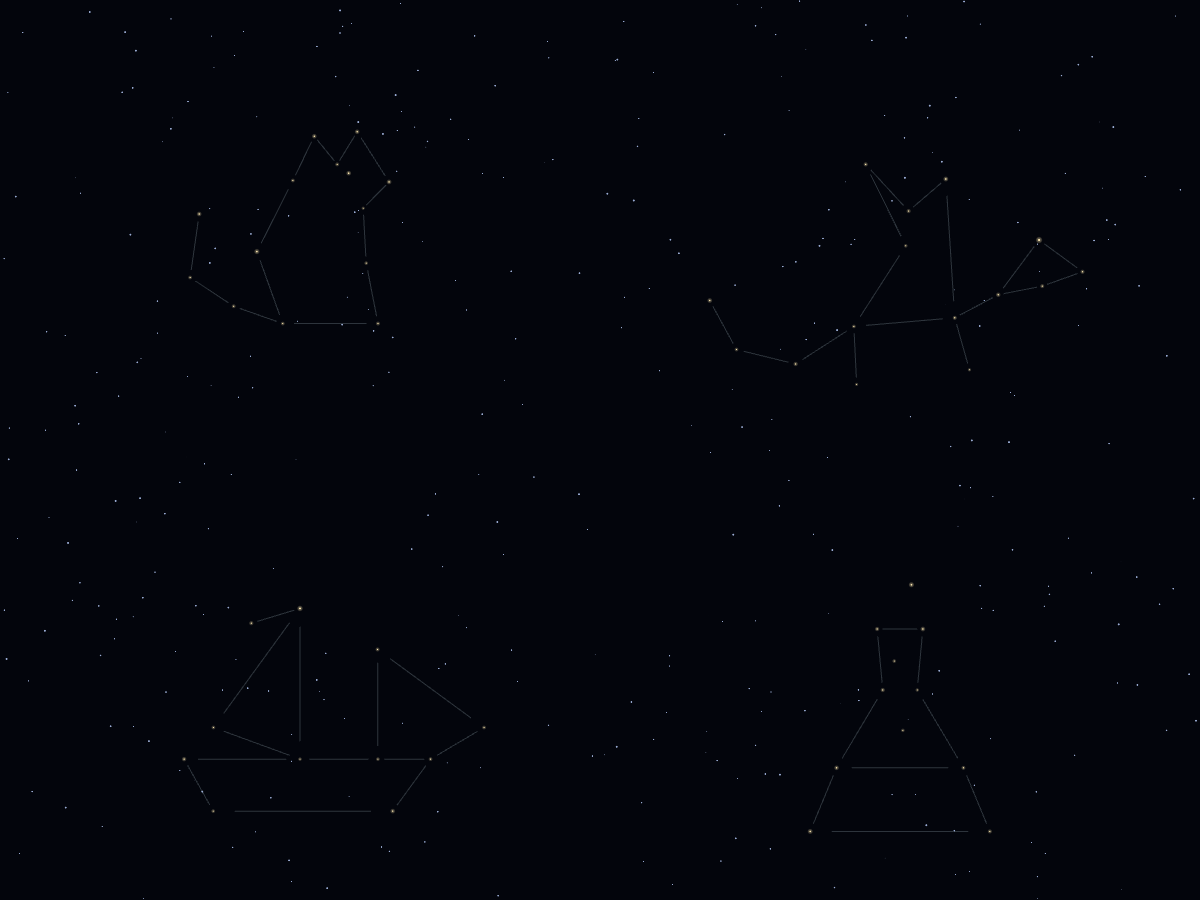
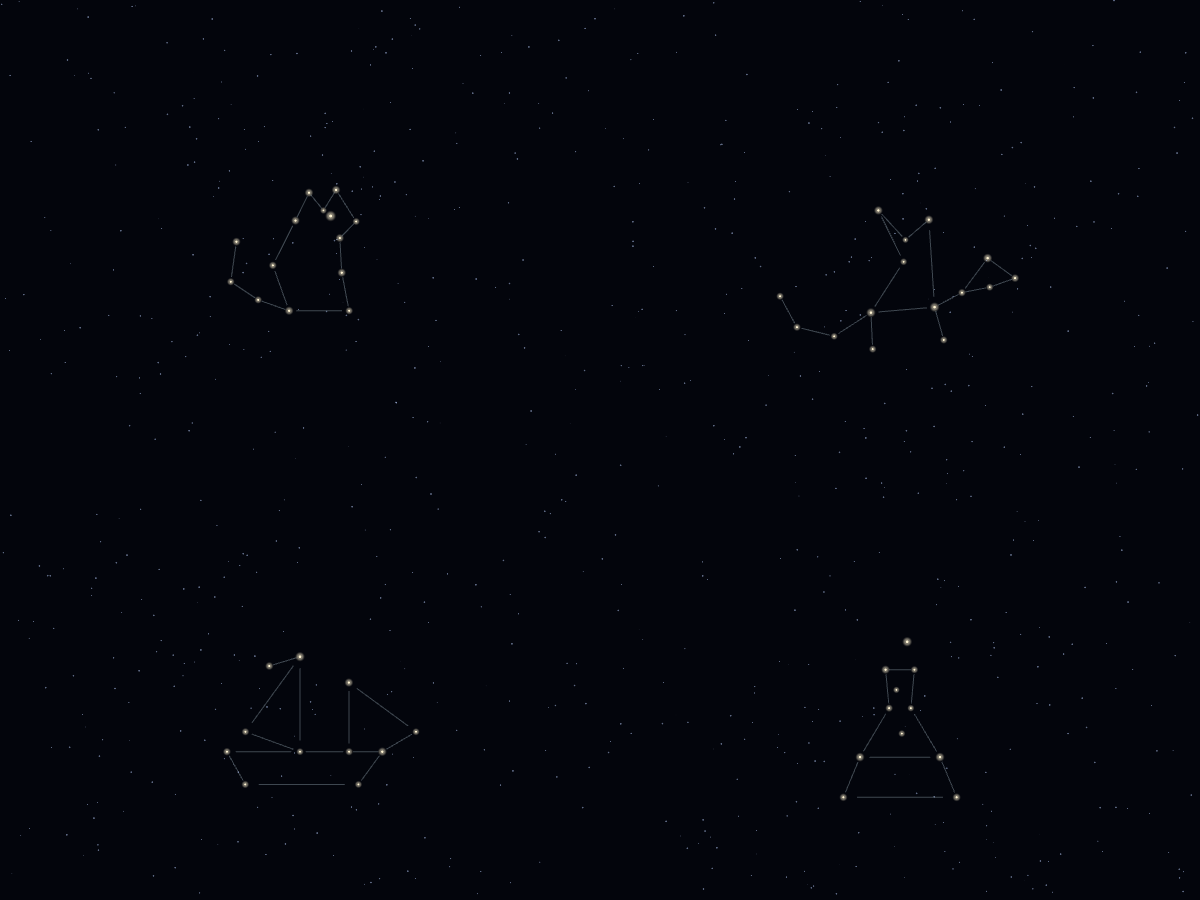
Make the constellations easy to pick out of the night sky
Dim the background stars to 60% and cap them at 2.6 px; draw the
constellation stars larger (6.5–12 px) with a glow halo and additive
blending, and raise the figure lines a little.

Claude-Session: https://claude.ai/code/session_01XptMSrBg6Jc7cUkCUeEWoc

diff --git a/src/components/brain/Constellations.tsx b/src/components/brain/Constellations.tsx
@@ -8,7 +8,7 @@ import { buildConstellationBuffers, twinkleTime } from '@/lib/brain/constellatio
 /** Same shell as the background stars (galaxy.ts puts them at 70–90 units). */
 const SKY_RADIUS = 75 * WORLD_SCALE;
 /** Figure lines are guides, kept well below the stars' own brightness. */
-const LINE_OPACITY = 0.32;
+const LINE_OPACITY = 0.45;
 
 const starVertexShader = /* glsl */ `
   attribute float mag;
@@ -19,9 +19,10 @@ const starVertexShader = /* glsl */ `
     gl_Position = projectionMatrix * modelViewMatrix * vec4(position, 1.0);
     // Shared-clock twinkle: uTime is the pose clock folded into one period,
     // so every peer's stars brighten and dim together.
-    float twinkle = 0.85 + 0.15 * sin(uTime * 1.7 + phase) * sin(uTime * 0.6 + phase * 2.3);
+    float twinkle = 0.9 + 0.1 * sin(uTime * 1.7 + phase) * sin(uTime * 0.6 + phase * 2.3);
     vMag = mag * twinkle;
-    gl_PointSize = mix(4.0, 8.0, mag) * twinkle;
+    // Well above the background stars' 1–2.6 px so the figures stand out.
+    gl_PointSize = mix(6.5, 12.0, mag) * twinkle;
   }
 `;
 
@@ -31,8 +32,9 @@ const starFragmentShader = /* glsl */ `
   varying float vMag;
   void main() {
     float radius = length(gl_PointCoord - vec2(0.5));
-    float core = (1.0 - smoothstep(0.0, 0.22, radius)) + 0.35 * (1.0 - smoothstep(0.22, 0.5, radius));
-    float alpha = core * uOpacity * (0.55 + 0.45 * vMag);
+    // Bright core plus a soft glow halo.
+    float core = (1.0 - smoothstep(0.0, 0.18, radius)) + 0.5 * (1.0 - smoothstep(0.18, 0.5, radius));
+    float alpha = min(1.0, core * uOpacity * (0.8 + 0.2 * vMag));
     if (alpha <= 0.001) discard;
     gl_FragColor = vec4(uTint, alpha);
   }
@@ -52,7 +54,7 @@ export function Constellations() {
   const starUniforms = useMemo(() => ({
     uOpacity: { value: 0 },
     uTime: { value: 0 },
-    uTint: { value: new THREE.Color('hsl(45, 90%, 92%)') },
+    uTint: { value: new THREE.Color('hsl(45, 100%, 95%)') },
   }), []);
   const lineMaterial = useMemo(() => new THREE.LineBasicMaterial({
     color: new THREE.Color('hsl(205, 70%, 78%)'),
@@ -70,7 +72,7 @@ export function Constellations() {
     ).starOpacity;
     group.visible = starOpacity > 0.002;
     if (!group.visible) return;
-    starUniforms.uOpacity.value = Math.min(1, starOpacity * 1.15);
+    starUniforms.uOpacity.value = Math.min(1, starOpacity * 1.3);
     starUniforms.uTime.value = twinkleTime(getEarthPoseTime());
     // Lines come out only once the sky is properly dark.
     lineMaterial.opacity = LINE_OPACITY * starOpacity * starOpacity;
@@ -118,6 +120,7 @@ export function Constellations() {
           fragmentShader={starFragmentShader}
           uniforms={starUniforms}
           transparent
+          blending={THREE.AdditiveBlending}
           depthWrite={false}
         />
       </points>

diff --git a/src/components/brain/StarField.tsx b/src/components/brain/StarField.tsx
@@ -12,7 +12,7 @@ const vertexShader = /* glsl */ `
     gl_Position = projectionMatrix * modelViewMatrix * vec4(position, 1.0);
     // Stars are distant light sources, not metre-sized particles that vanish
     // under perspective. Keep a stable, softly rounded pixel footprint.
-    gl_PointSize = clamp(size * uSizeScale, 1.2, 3.0);
+    gl_PointSize = clamp(size * uSizeScale, 1.0, 2.6);
   }
 `;
 
@@ -21,7 +21,8 @@ const fragmentShader = /* glsl */ `
   uniform vec3 uTint;
   void main() {
     float radius = length(gl_PointCoord - vec2(0.5));
-    float alpha = (1.0 - smoothstep(0.15, 0.5, radius)) * uOpacity;
+    // Dimmed so the constellation stars (Constellations.tsx) stand out.
+    float alpha = (1.0 - smoothstep(0.15, 0.5, radius)) * uOpacity * 0.6;
     if (alpha <= 0.001) discard;
     gl_FragColor = vec4(uTint, alpha);
   }
